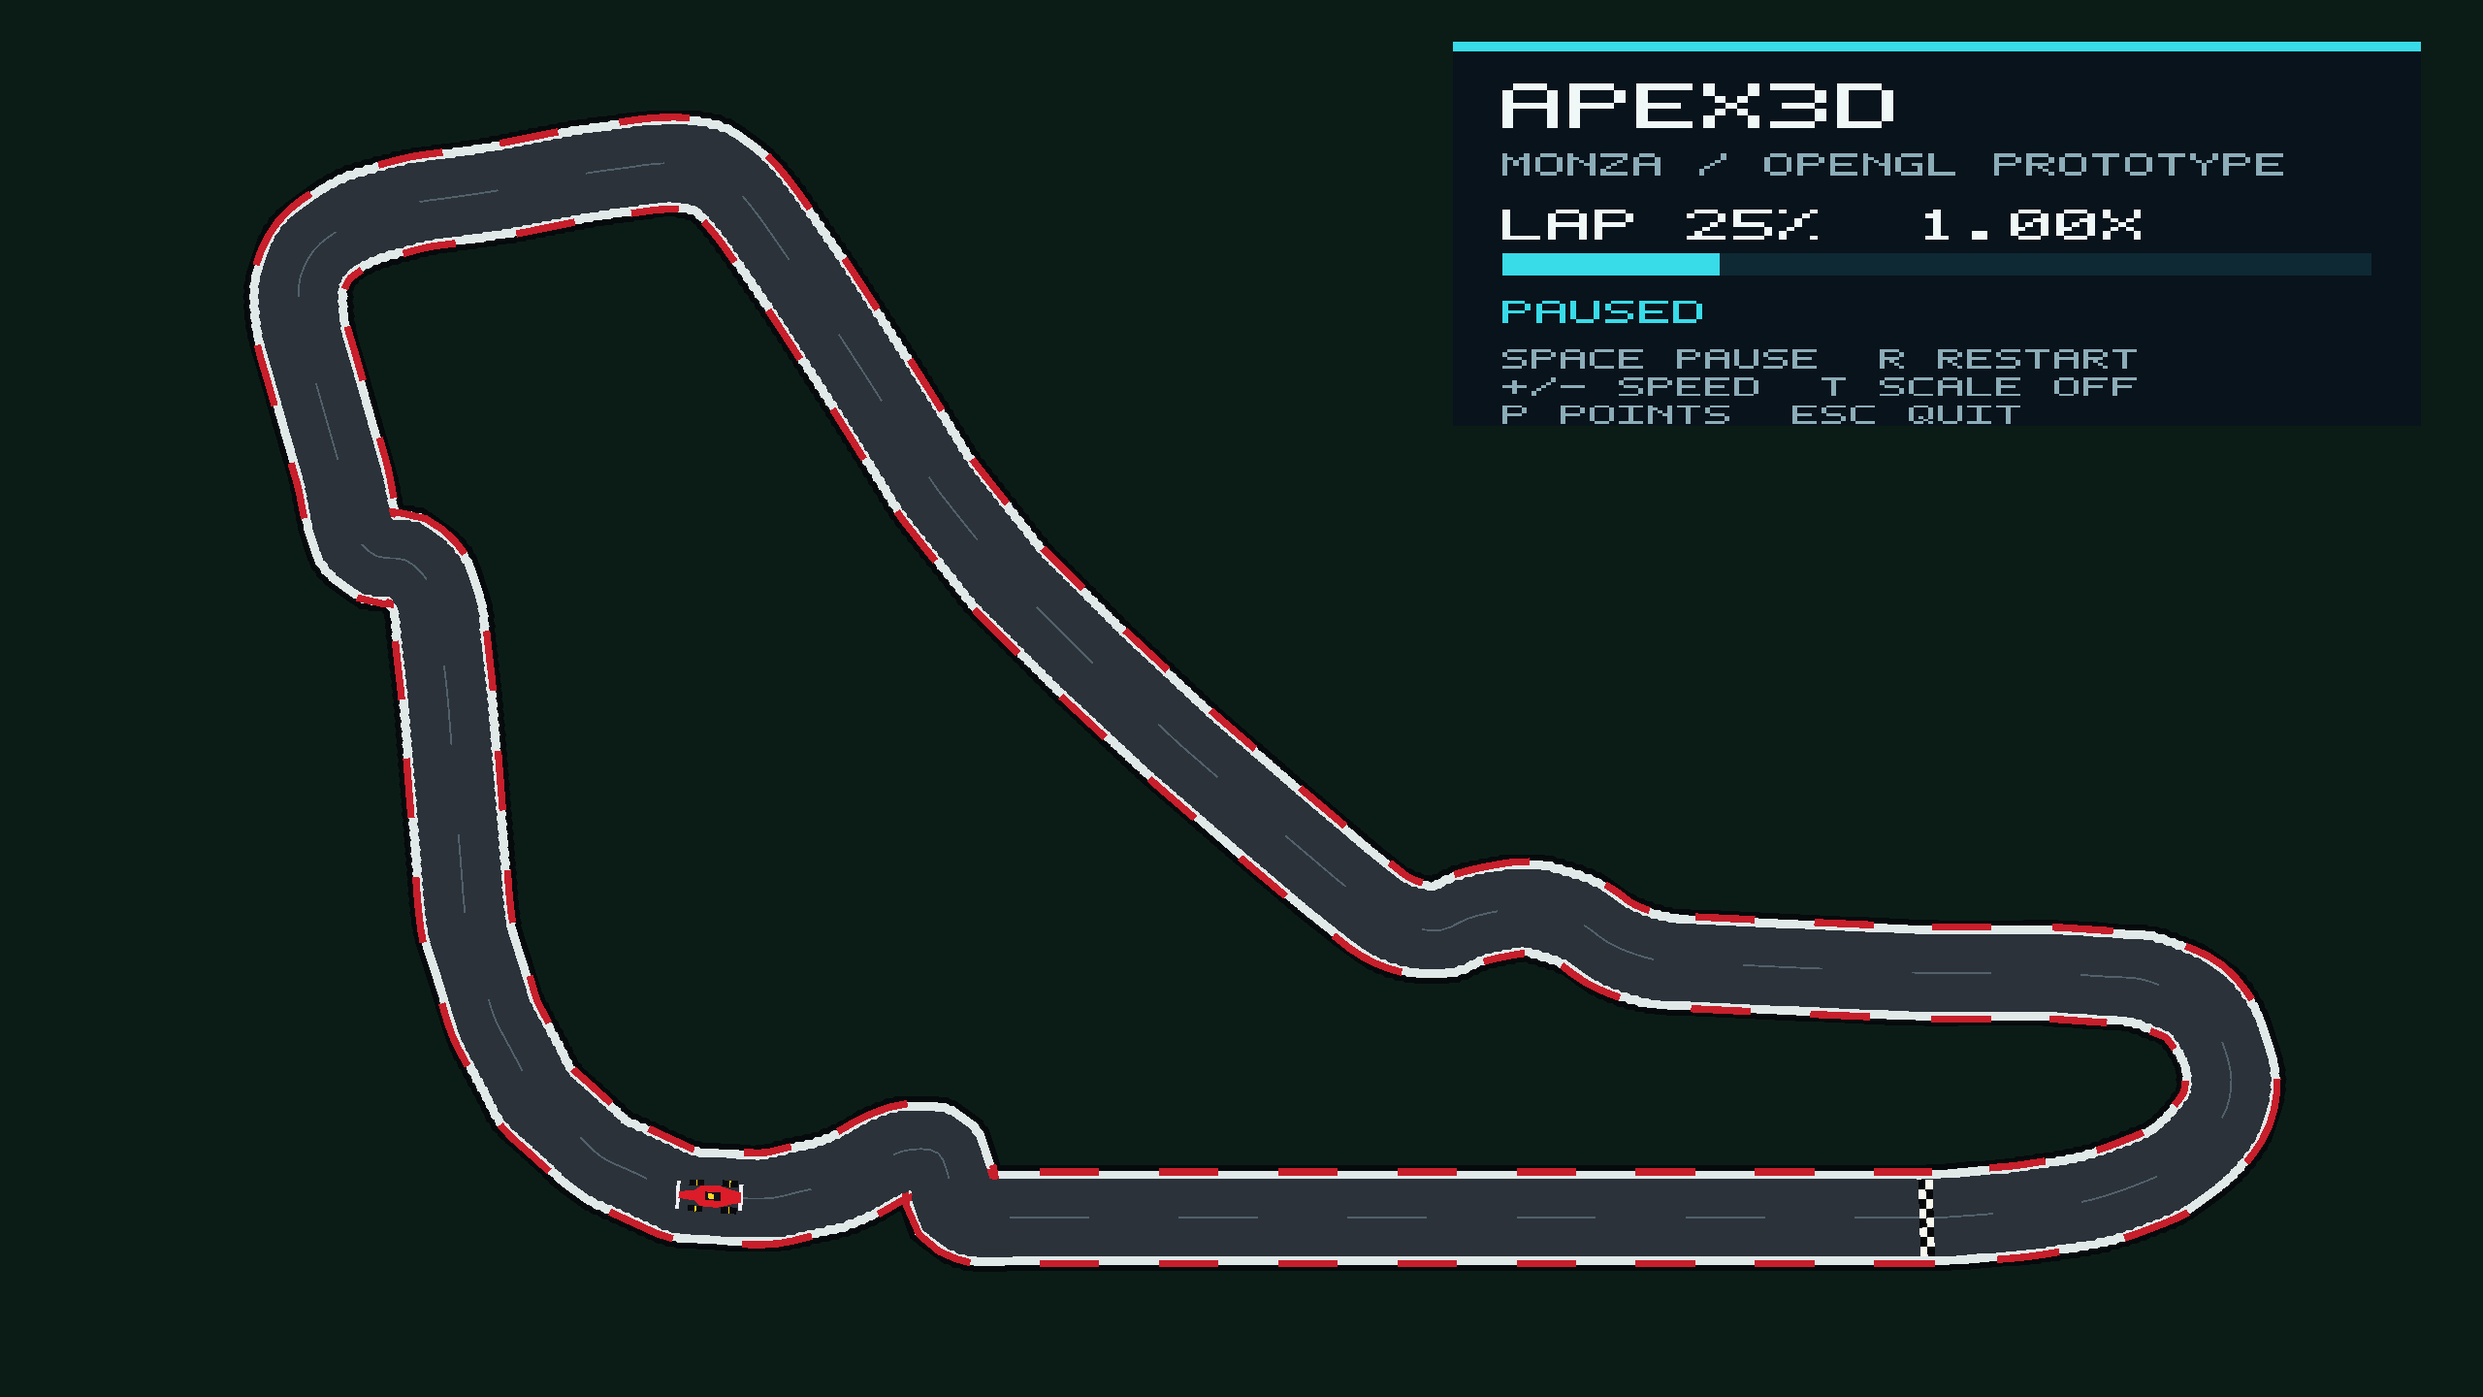
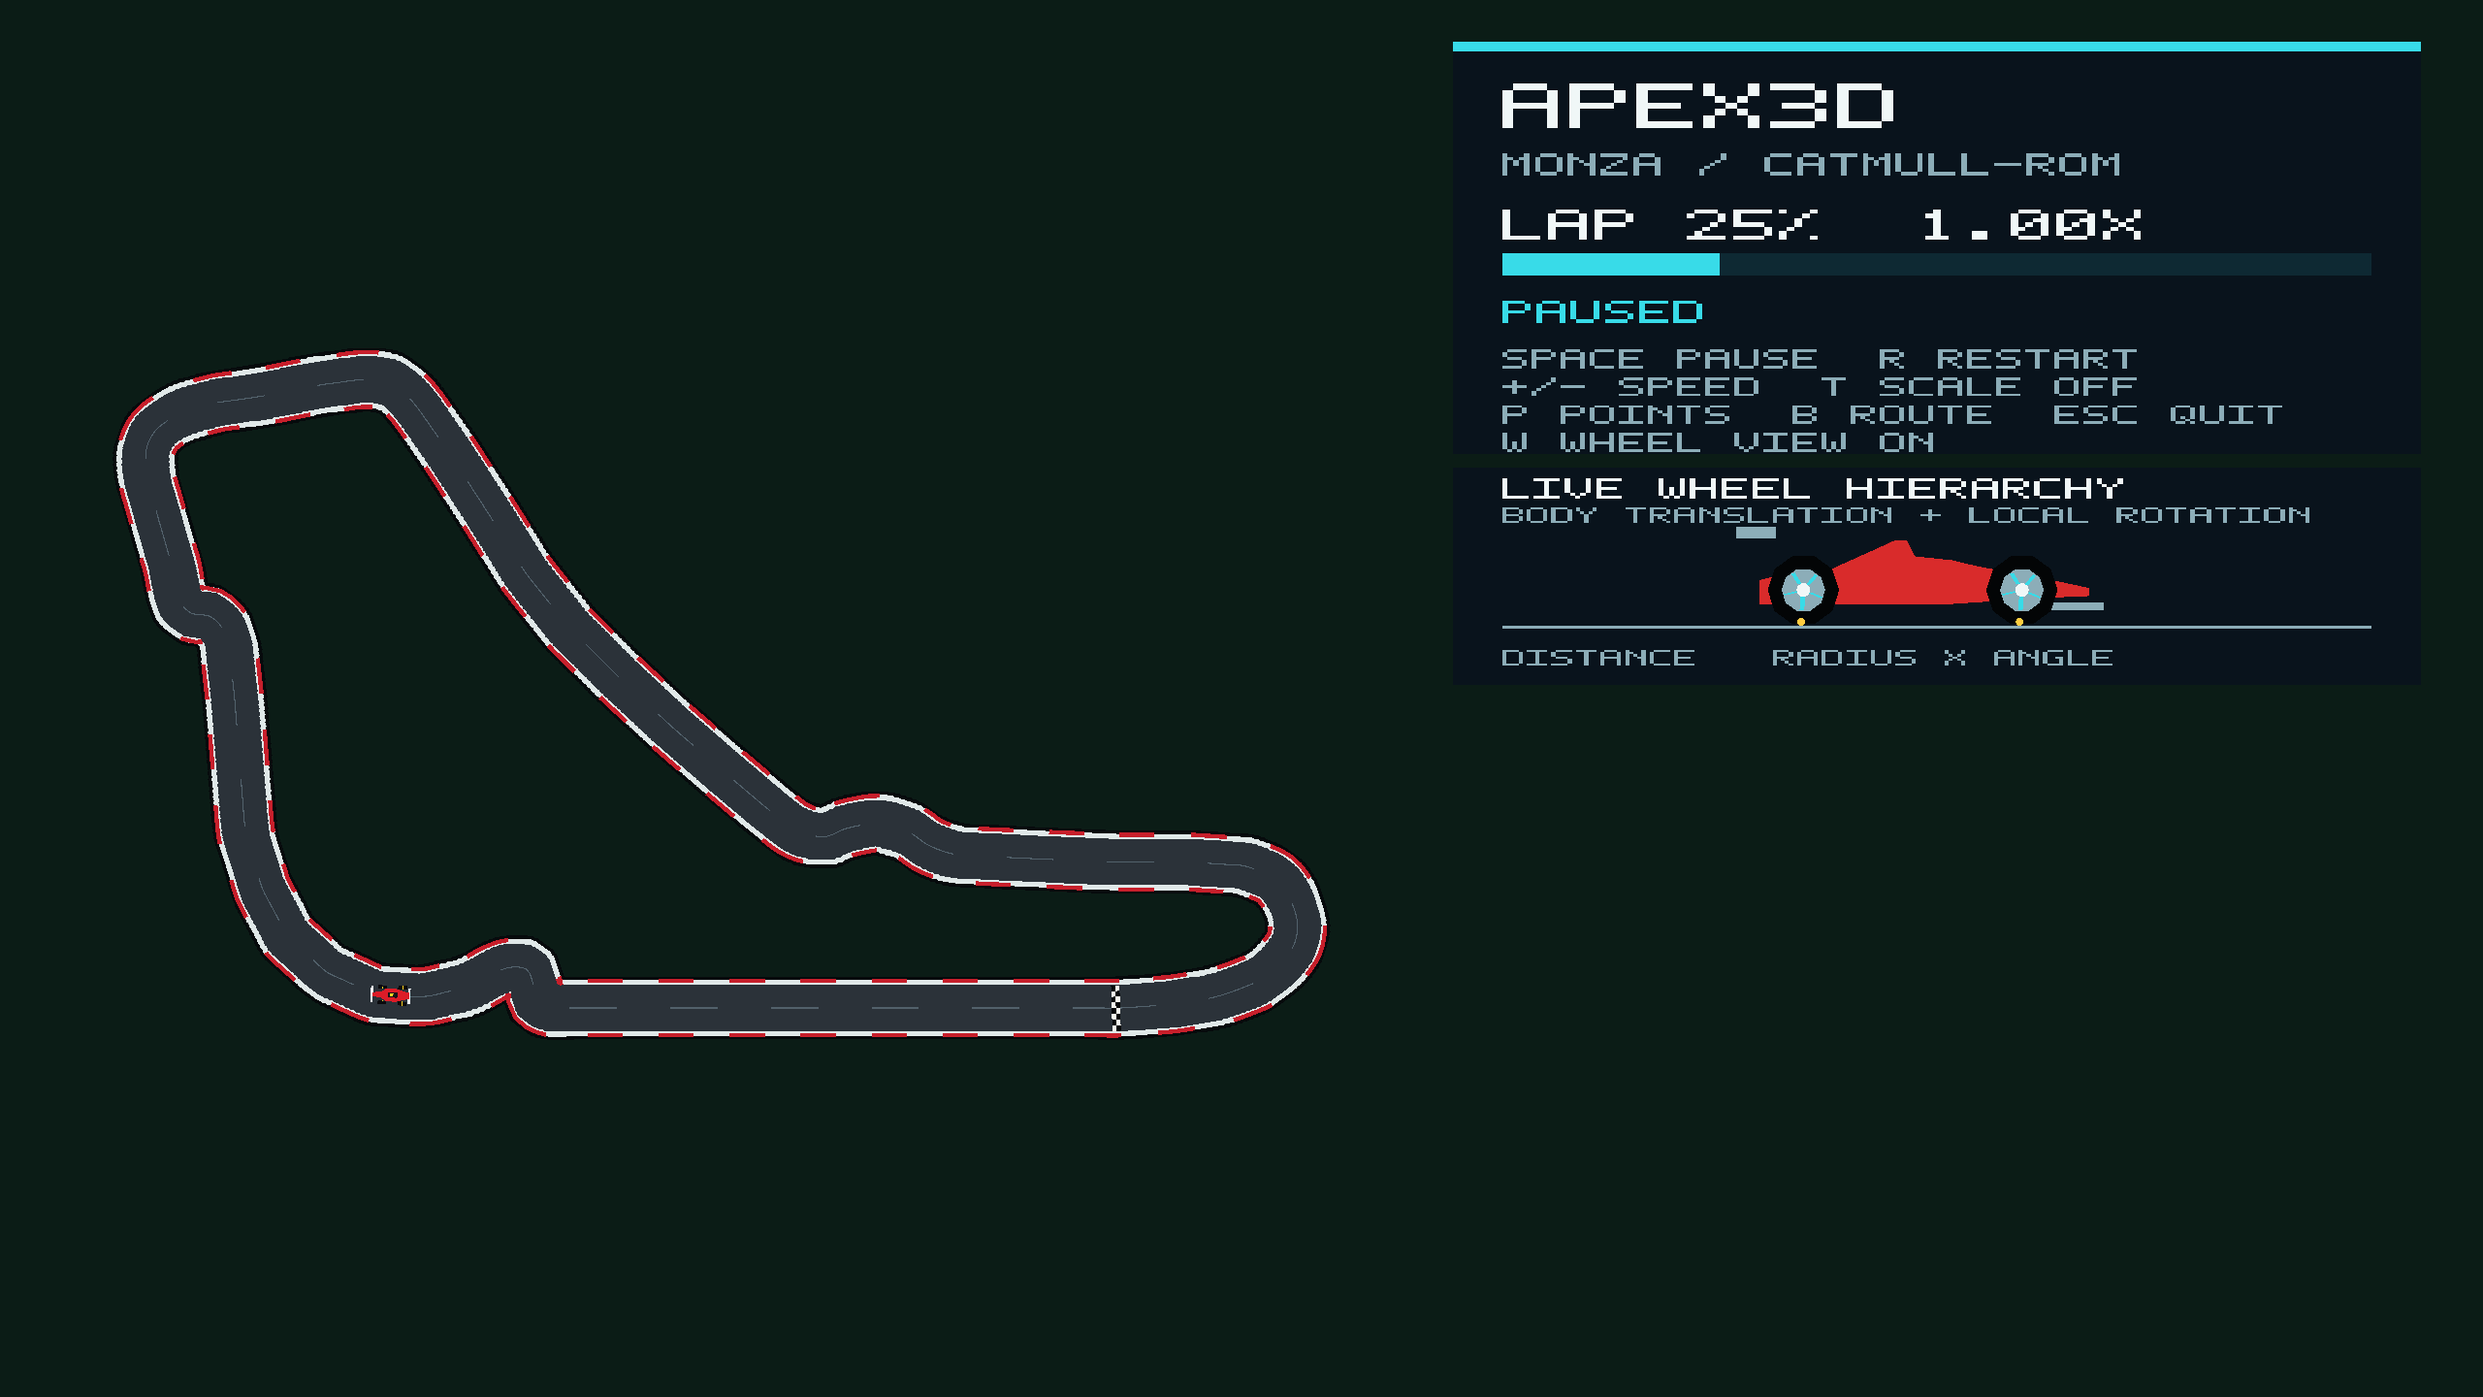
📝 docs: prepare CP3 walkthrough and refreshed OpenGL evidence

diff --git a/README.md b/README.md
@@ -11,7 +11,10 @@ The runnable OpenGL application now displays a filled Monza circuit and a
 polygon Formula 1 car moving around it. It reuses the CP2 Catmull-Rom curve,
 transformation matrix and polygon-car model. The path is resampled by distance
 so the car travels at approximately uniform speed and faces the tangent of the
-circuit. A small in-window display shows lap progress and controls.
+circuit. Press `B` to switch to the original CP2 Bézier demo circuit, with its
+own matching road and anchor display. A live side-view inset reuses the CP2
+wheel hierarchy: body translation and local wheel spin follow travelled
+distance. A small in-window display shows the active route, lap progress and controls.
 
 ![Checkpoint 3 OpenGL prototype at a quarter lap](docs/evidence/cp3-opengl-prototype.png)
 
@@ -35,7 +38,9 @@ On Windows, the executable may be under `build/Debug/Apex3D.exe`.
 | `R` | Restart from the start/finish line |
 | `+` / `-` | Increase or decrease playback speed |
 | `T` | Toggle the scaling demonstration |
-| `P` | Show or hide Monza control points |
+| `P` | Show or hide the active route’s anchor points |
+| `B` | Switch between Monza/Catmull–Rom and the Bézier demo; reset progress |
+| `W` | Show or hide the live wheel hierarchy inset |
 | `Esc` | Quit |
 
 To capture a real OpenGL frame as a PPM image:
@@ -46,7 +51,16 @@ To capture a real OpenGL frame as a PPM image:
 ```
 
 The second command renders the car at 25% lap progress. The accepted progress
-range is 0 to 1.
+range is 0 to 1. Append `--bezier` to either capture command, or run
+`./build/Apex3D --bezier`, to start on the Bézier demo circuit.
+
+![Bézier route and live wheel hierarchy](docs/evidence/cp3-bezier-wheels.png)
+
+Both routes use an 18-second lap at 1x speed, rather than a shared physical
+speed. Switching routes resets the lap and wheel travel while preserving the
+play/pause state. Restart resumes playback. The wheel inset repeats one
+revolution of the side-view CP2 car; it does not rotate the top-down tyres
+around the wrong axis.
 
 ## Checkpoint 2 foundation
 
@@ -104,6 +118,10 @@ The script compiles every CP2 test and demonstration with:
 It runs the transformation, timeline, wheel, polygon-car, spline and Bézier
 test suites and regenerates disposable evidence in a temporary directory.
 
+GitHub Actions runs the release build, CP3 scene checks, and complete CP2
+verification on Linux and macOS. OpenGL screenshots and keyboard interaction
+are checked locally; CI does not launch the graphical window.
+
 Each milestone also has its own README with individual build and run commands:
 
 - [Checkpoint 2 overview](checkpoint2/README.md)
@@ -117,6 +135,7 @@ Each milestone also has its own README with individual build and run commands:
 ## Evidence and documentation
 
 - [CP3 progress and remaining work](docs/checkpoint3-progress.md)
+- [CP3 demo and explanation guide](docs/checkpoint3-demo-guide.md)
 - [CP3 OpenGL screenshot](docs/evidence/cp3-opengl-prototype.png)
 - [CP2 readiness checklist](docs/checkpoint2-readiness.md)
 - [CP2 evidence PDF](output/pdf/Apex3D_Checkpoint2_Evidence.pdf)
@@ -133,8 +152,8 @@ Each milestone also has its own README with individual build and run commands:
 - Raster edges are not anti-aliased.
 - Catmull-Rom travel distance is estimated from a sampled path. It is
   approximately, not exactly, constant-speed.
-- The CP2 wheel hierarchy and Bézier lap are still separate demonstrations.
-  They are not selectable in the OpenGL prototype yet.
+- Wheel rolling is shown in a live side-view inset; the top-down car does not
+  yet have 3D wheel geometry. The inset resets its position once per revolution.
 - Camera control, perspective, lighting and telemetry heatmaps remain
   final-project work.
 

diff --git a/docs/architecture.md b/docs/architecture.md
@@ -12,19 +12,27 @@ Hand-authored Monza points
     -> sampled lap distances and track surface
     -> static OpenGL triangle buffer
 
-Elapsed time -> lap progress -> path position and tangent
+CP2 Bezier circuit -> pixel-to-scene conversion -> sampled demo road
+
+Active route + elapsed time -> lap progress -> path position and tangent
     -> CP2 Mat3 translation, rotation and optional scaling
     -> CP2 polygon-car model -> triangulated car mesh
     -> dynamic OpenGL triangle buffer
 
+Accumulated route distance -> CP2 body and wheel poses -> side-view inset
 Playback state -> in-window progress and controls -> dynamic HUD buffer
 ```
 
 GLFW creates the window and handles keys. GLAD loads OpenGL functions. A vertex
-shader corrects the scene for the window's aspect ratio and passes per-vertex
-colour to a fragment shader. The track mesh is uploaded once; the car and HUD
-meshes are updated as the lap progresses. The car is drawn after the track, and
-the HUD is drawn last in clip coordinates.
+shader fits the scene into the left area with an aspect correction and offset,
+and passes per-vertex colour to a fragment shader. The track mesh is uploaded
+once per route switch; the car and HUD meshes are updated as the lap progresses. The car is drawn after the track, and
+the HUD is drawn last in clip coordinates on the right. `B` switches the route, road
+and anchor buffer together and resets progress and accumulated wheel travel.
+The existing CP2 Bézier evaluator, derivative and arc-length table are reused;
+its original pixel coordinates are scaled and Y-flipped into scene units.
+The live wheel inset reuses CP2 body translation and local wheel transforms,
+with a repeating one-revolution side-view placement.
 
 ## Source map
 
@@ -32,10 +40,12 @@ the HUD is drawn last in clip coordinates.
 | --- | --- |
 | `src/main.cpp` | Window, shaders, buffers, playback controls and frame loop |
 | `include/apex3d/cp3_scene.hpp` | Monza points, path resampling, CP2 spline reuse, track mesh, CP2 car placement and triangulation |
-| `include/apex3d/cp3_hud.hpp` | Small CPU-built text and progress display drawn with OpenGL triangles |
+| `include/apex3d/cp3_hud.hpp` | Text, progress and live CP2 side-view wheel hierarchy drawn with OpenGL triangles |
 | `tests/cp3_scene_tests.cpp` | Closure, monotonic lap distance, car orientation and mesh checks |
 | `checkpoint2/transformations/include/transform2d.hpp` | Shared 3 x 3 matrix and polygon transforms |
 | `checkpoint2/animation/splines/include/spline_motion.hpp` | Catmull-Rom position and analytic tangent |
+| `checkpoint2/animation/bezier/include/bezier_motion.hpp` | Bézier circuit, polynomial evaluation, derivatives and arc-length samples |
+| `checkpoint2/animation/wheels/include/wheel_animation.hpp` | Rolling distance, parent body transform and wheel-pivot poses |
 | `checkpoint2/animation/car/include/car_animation.hpp` | Formula 1 car polygon components and shared placement function |
 
 The original Bresenham and other CP1/CP2 demonstrations remain available in
@@ -46,6 +56,6 @@ visible track surface and car.
 
 This is a top-down 2D prototype inside an OpenGL window. The car and road are
 simplified graphical components. Future work includes a 3D camera, elevation,
-lighting, detailed car and scenery, telemetry input, wheel animation in the
-live scene, and a selectable Bézier route. The lecturer's final requirements
-will determine which of those become assessed features.
+lighting, detailed car and scenery, telemetry input, 3D wheel geometry, and
+additional routes. The lecturer's final requirements will determine which of
+those become assessed features.

diff --git a/docs/checkpoint3-demo-guide.md b/docs/checkpoint3-demo-guide.md
@@ -1,0 +1,63 @@
+# Checkpoint 3 demonstration guide
+
+Status: integration walkthrough prepared; lecturer rubric and final submission
+requirements remain unconfirmed. This is a 2D OpenGL prototype.
+
+## Before presenting
+
+Run `cmake --build build --parallel`,
+`ctest --test-dir build --output-on-failure`, and `checkpoint2/verify_all.sh`.
+Launch `./build/Apex3D`. Check both routes for a complete lap and confirm that
+the car follows the road, faces forward and crosses the start line cleanly.
+
+## Suggested two-minute walkthrough
+
+1. Show Monza playing. Explain that CP2 Catmull–Rom position and analytic
+   tangent orient the polygon car. Distance sampling approximates uniform
+   travel; the animation is not telemetry or a vehicle physics simulation.
+2. Press `Space`. Point out that the car, progress and wheel inset freeze.
+   Press `P` to display the route anchors. Explain how a 3 x 3 matrix combines
+   translation, rotation and optional scaling of all car polygons.
+3. Resume with `Space`, then use `+` / `-` and `T` to demonstrate playback
+   speed and scaling. Disable scaling afterward. `R` resets and resumes.
+4. Show the wheel inset. Explain the parent body transform and rotation about
+   each wheel mount, using the same CP2 wheel-pose functions. Rolling uses
+   distance = radius x angle. The side-view placement repeats each revolution;
+   the top-down tyres are not represented as rotating circles.
+5. Press `B`. Identify the separate CP2 Bézier demo circuit, its matching road,
+   and its eight anchors (`P`). Explain cubic Bézier evaluation, derivatives
+   and approximate arc-length lookup. Switching resets the lap and wheel
+   travel but preserves pause/play; both routes take 18 seconds at 1x.
+6. Toggle the wheel inset with `W`, switch back with `B`, and finish with the
+   known limitations: top-down 2D, hand-authored geometry, no telemetry,
+   perspective, lighting or 3D wheel model yet.
+
+## Evidence capture
+
+```bash
+./build/Apex3D --screenshot-at 0.25 monza.ppm
+./build/Apex3D --screenshot-at 0.25 bezier.ppm --bezier
+```
+
+The checked-in PNGs are real OpenGL frames:
+
+- `docs/evidence/cp3-opengl-prototype.png`
+- `docs/evidence/cp3-bezier-wheels.png`
+
+For a short recording, follow steps 1–5 and speak to the visible controls.
+A video recording is not included in this evidence pack.
+
+## Group explanation preparation
+
+Each member should explain the algorithm and source they actually contributed,
+then show how the integration uses it. Use the responsibilities in the root
+README as the starting point; do not imply everyone implemented the OpenGL
+integration. Be prepared to show the transformation matrix order, tangent
+heading, distance table, triangle rendering, and local wheel pivot.
+
+## Final submission gate
+
+Compare the official rubric with `docs/checkpoint3-progress.md` once available.
+Complete any required evidence, teammate review and submission steps before
+calling CP3 submitted. Do not present this walkthrough as final-project 3D
+completion.

diff --git a/docs/checkpoint3-progress.md b/docs/checkpoint3-progress.md
@@ -1,7 +1,7 @@
 # Checkpoint 3 Progress
 
 Checkpoint 3 asks the group to integrate previous components into an OpenGL
-prototype. The current branch contains the first working integration milestone.
+prototype. The current branch contains the extended integration milestone.
 
 | Item | Status | Evidence |
 | --- | --- | --- |
@@ -13,9 +13,10 @@ prototype. The current branch contains the first working integration milestone.
 | Live lap animation | Complete | Distance-based path lookup updates the car every frame, approximately evenly along the circuit. |
 | Interaction and feedback | Complete | Play/pause, restart, speed, scale demonstration, points toggle and an in-window lap display. |
 | Source and visual verification | Complete | `ctest --test-dir build --output-on-failure` and `docs/evidence/cp3-opengl-prototype.png`. |
-| Wheel hierarchy in the live scene | Pending | The CP2 wheel demonstration remains separate. |
-| Bézier path as a selectable live route | Pending | The CP2 Bézier demonstration remains separate. |
-| Group explanation and final submission evidence | Pending | Prepare after the lecturer publishes the combined checkpoint specifics. |
+| Wheel hierarchy in the live scene | Complete | Live side-view inset uses CP2 body placement and wheel poses, driven by accumulated travel; `W` toggles visibility. |
+| Bézier path as a selectable live route | Complete | `B` switches to the original CP2 Bézier demo circuit with a matching road, tangent-oriented car and anchor display. |
+| Group explanation and evidence | Prepared | `docs/checkpoint3-demo-guide.md` and two real OpenGL screenshots; final rubric alignment and submission remain pending. |
+| Automated regression checks | Configured | GitHub Actions builds Release and runs CP3/CP2 checks on Linux and macOS; hosted results are pending until pushed. |
 
 ## Run the prototype
 
@@ -29,3 +30,19 @@ ctest --test-dir build --output-on-failure
 The app is currently a 2D top-down prototype, not the final 3D visualisation.
 Its path and car are simplified and hand-authored; telemetry, perspective,
 lighting and detailed scene assets are still future work.
+
+## Verification for this integration
+
+Local macOS build and expanded CTest pass. Real OpenGL frames were captured
+on Apple M4 / OpenGL 4.1. Live interaction confirmed pause, route switching
+while paused, anchor display, wheel inset visibility, restart and speed change.
+The Bézier route uses its own original CP2 circuit rather than claiming to
+reproduce Monza. The track and HUD have separate horizontal areas.
+
+The wheel inset is a repeating side-view teaching demonstration. Its parent
+translation and local rotation are derived from the same travelled distance;
+its placement repeats every revolution. It freezes when playback is paused
+and resets on restart or route switch. The top-down car remains unchanged.
+
+The lecturer's latest rubric has not yet been supplied. No final submission,
+assessment compliance, or completed 3D scene is claimed.
